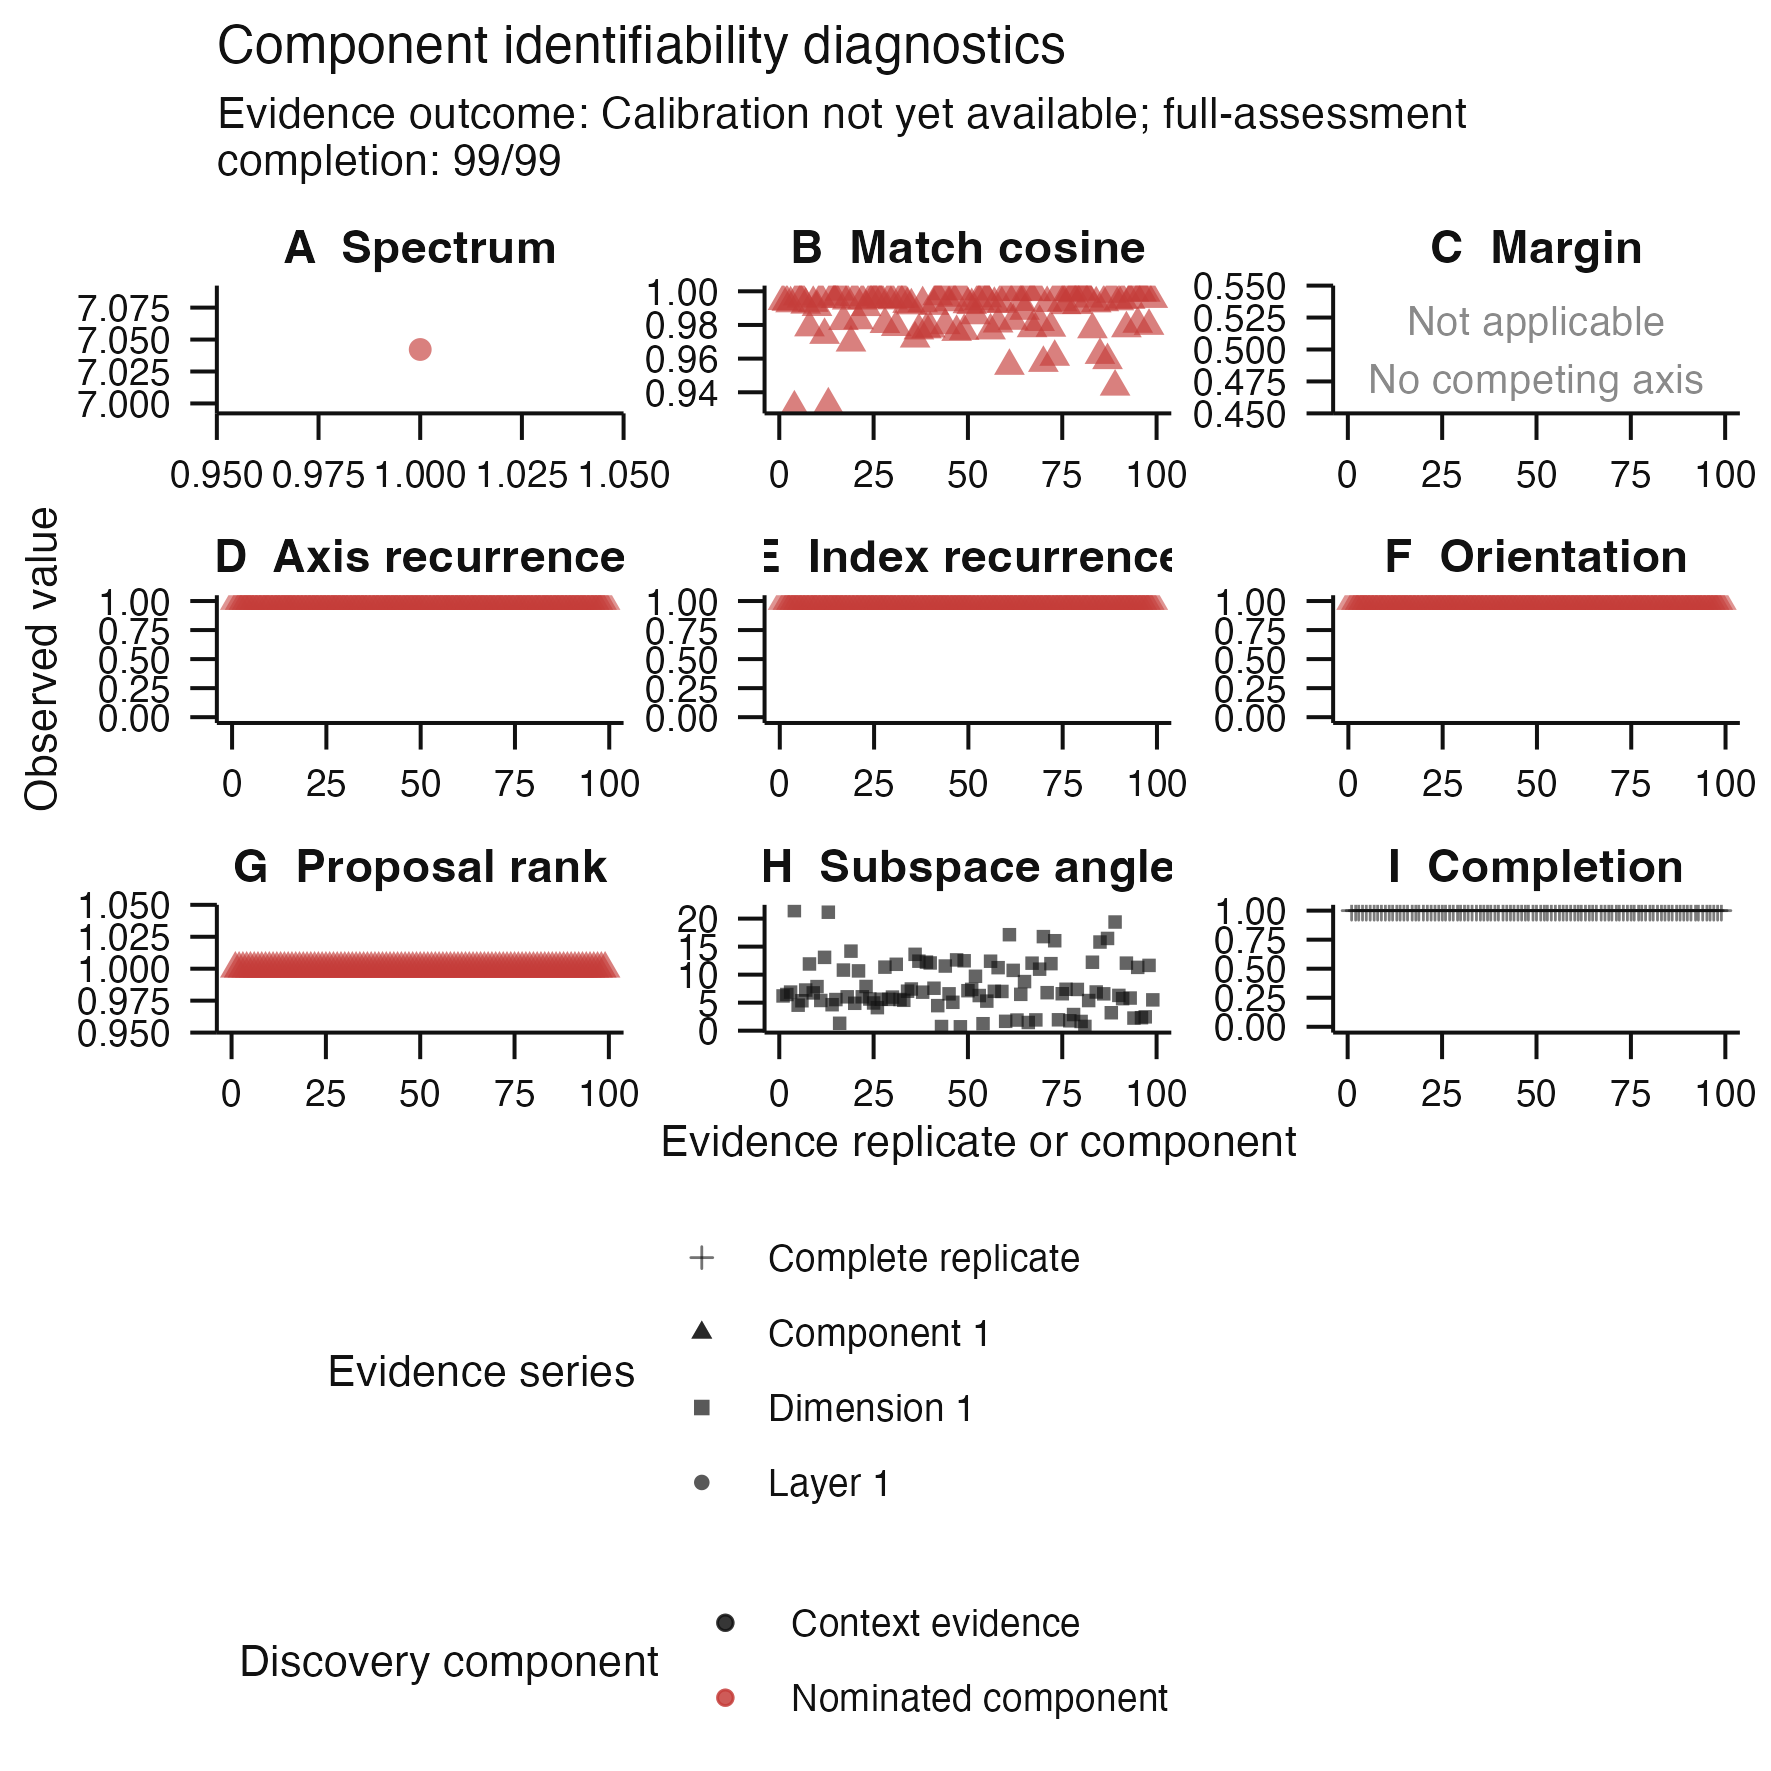
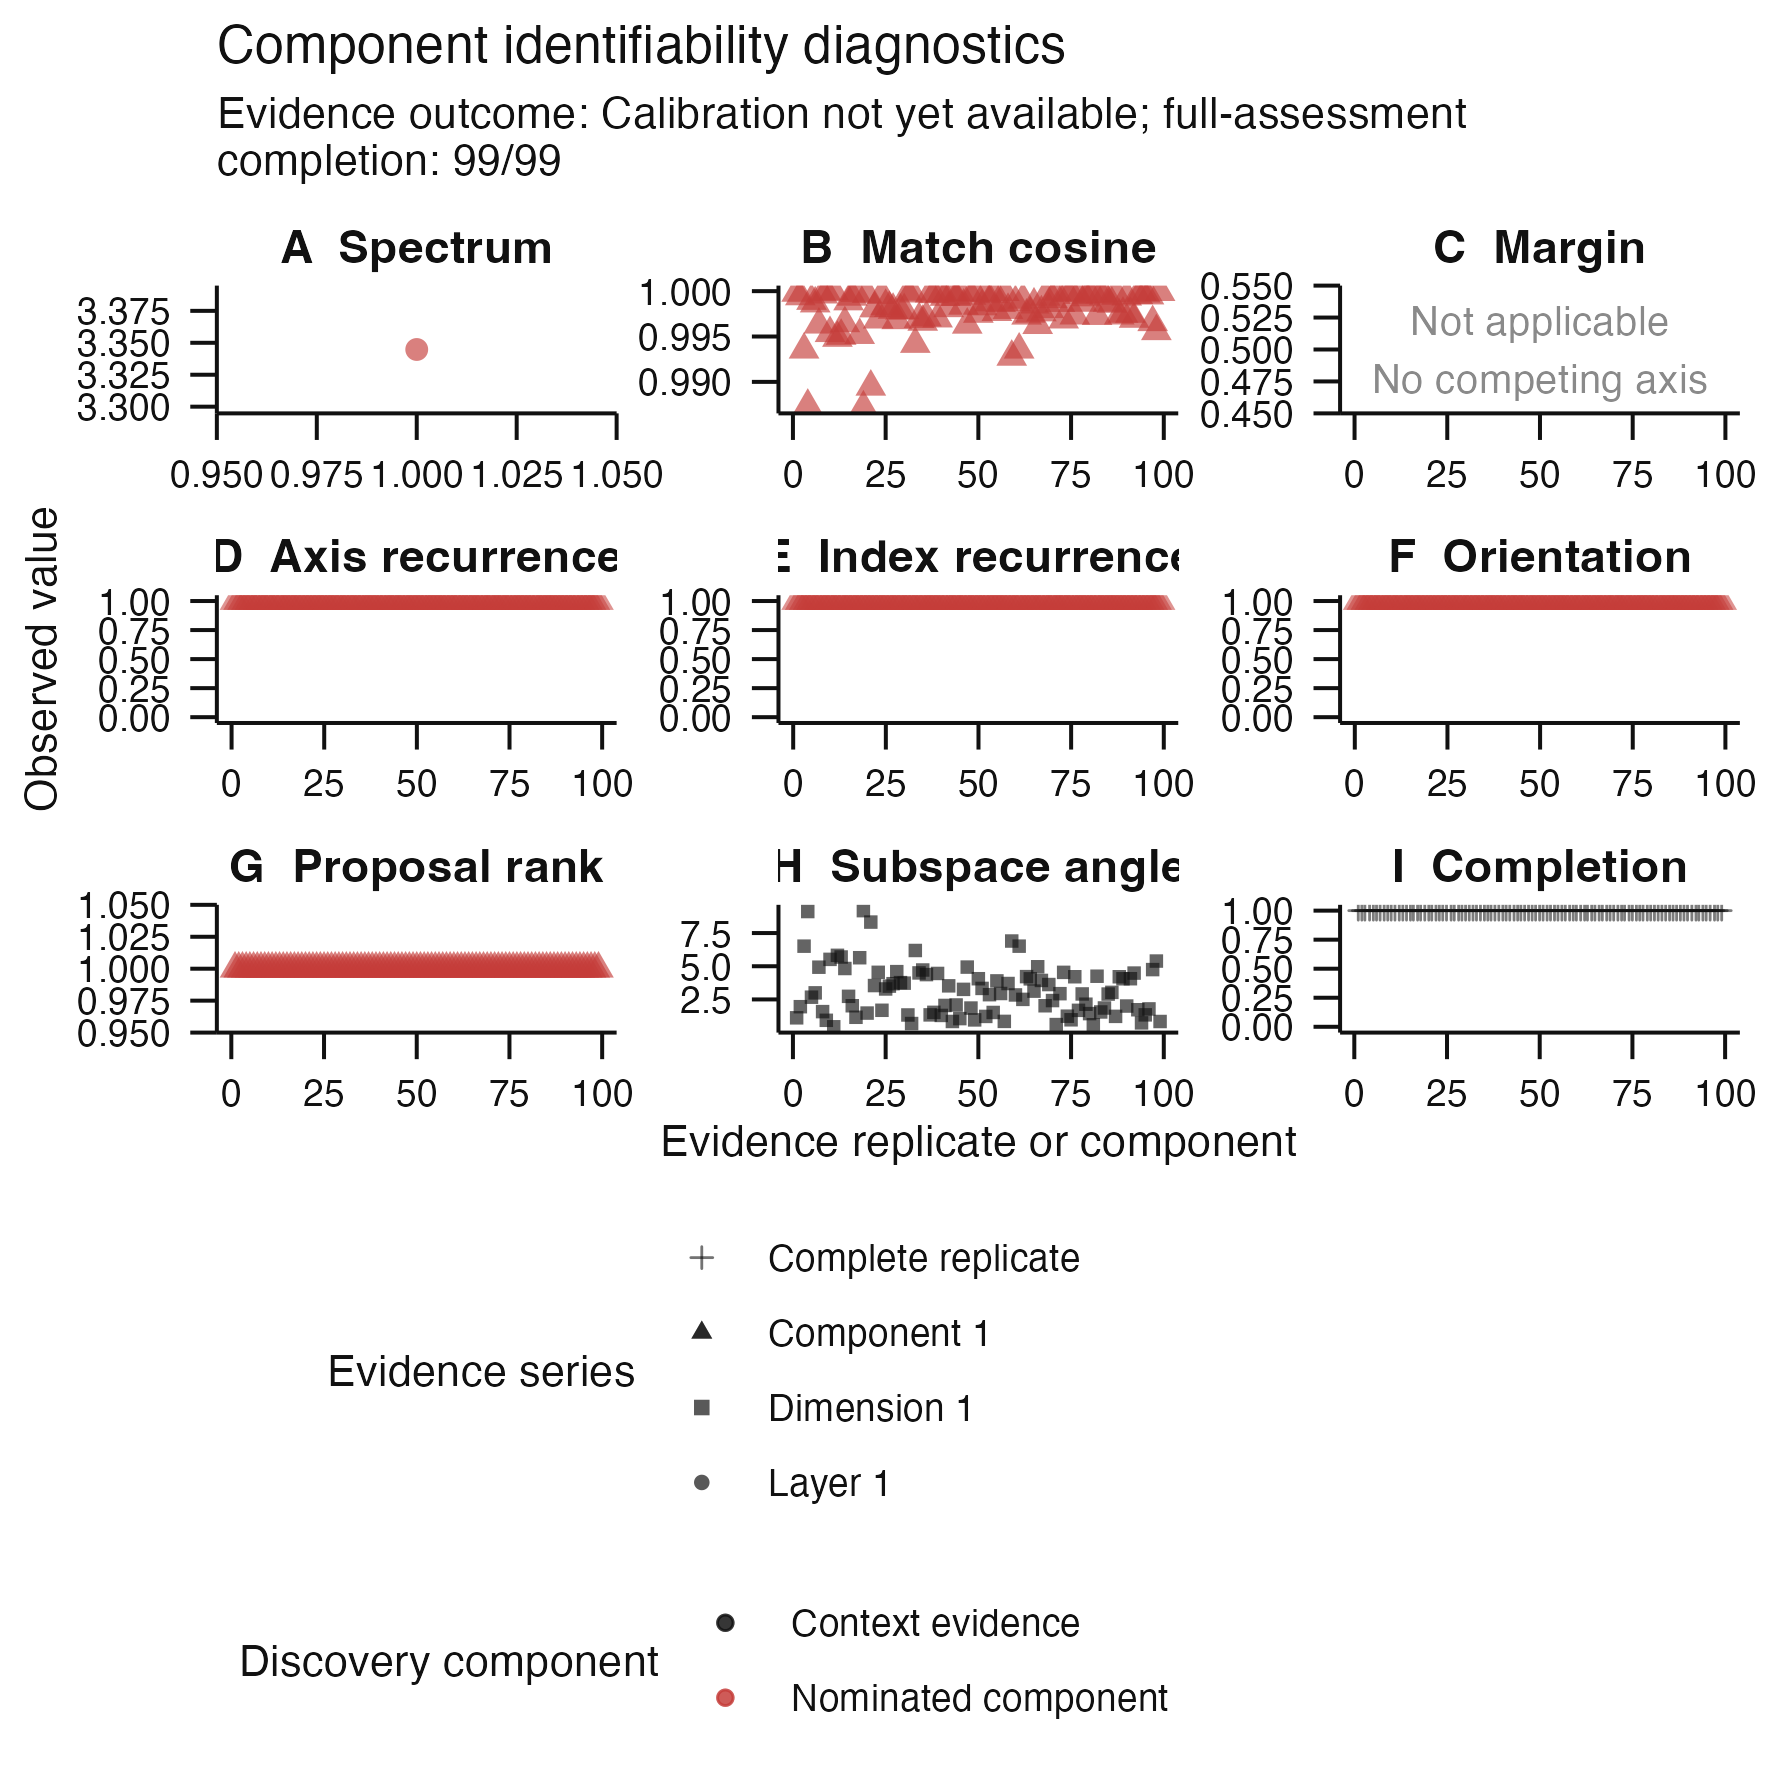
Correct K=1 diagnostic semantics (#126)

diff --git a/docs/agents/review-ratchet.md b/docs/agents/review-ratchet.md
@@ -76,6 +76,18 @@ found that body-only fingerprints, incomplete closure environments, and
 assign-before-record ordering could hide behavior changes or leave an
 unprovenanced registry mutation.
 
+### RR-006 — Verify that visual encodings carry independent meaning
+
+Before accepting a diagnostic relationship, verify that its plotted quantities
+are not deterministic transforms of one another. Also verify that semantic
+highlight colours retain their declared role rather than marking
+result-selected extremes. A mathematically redundant or semantically overloaded
+encoding can look informative while adding no evidence.
+
+**Incident:** [PR #150](https://github.com/drejom/landscapeR/pull/150) initially
+plotted one-dimensional principal angle against its exact absolute-cosine
+transform and used the focal red for the three largest observed rotations.
+
 ## Verify, never assume
 
 A reviewer is not an oracle. Treat every finding as a claim to investigate. A
